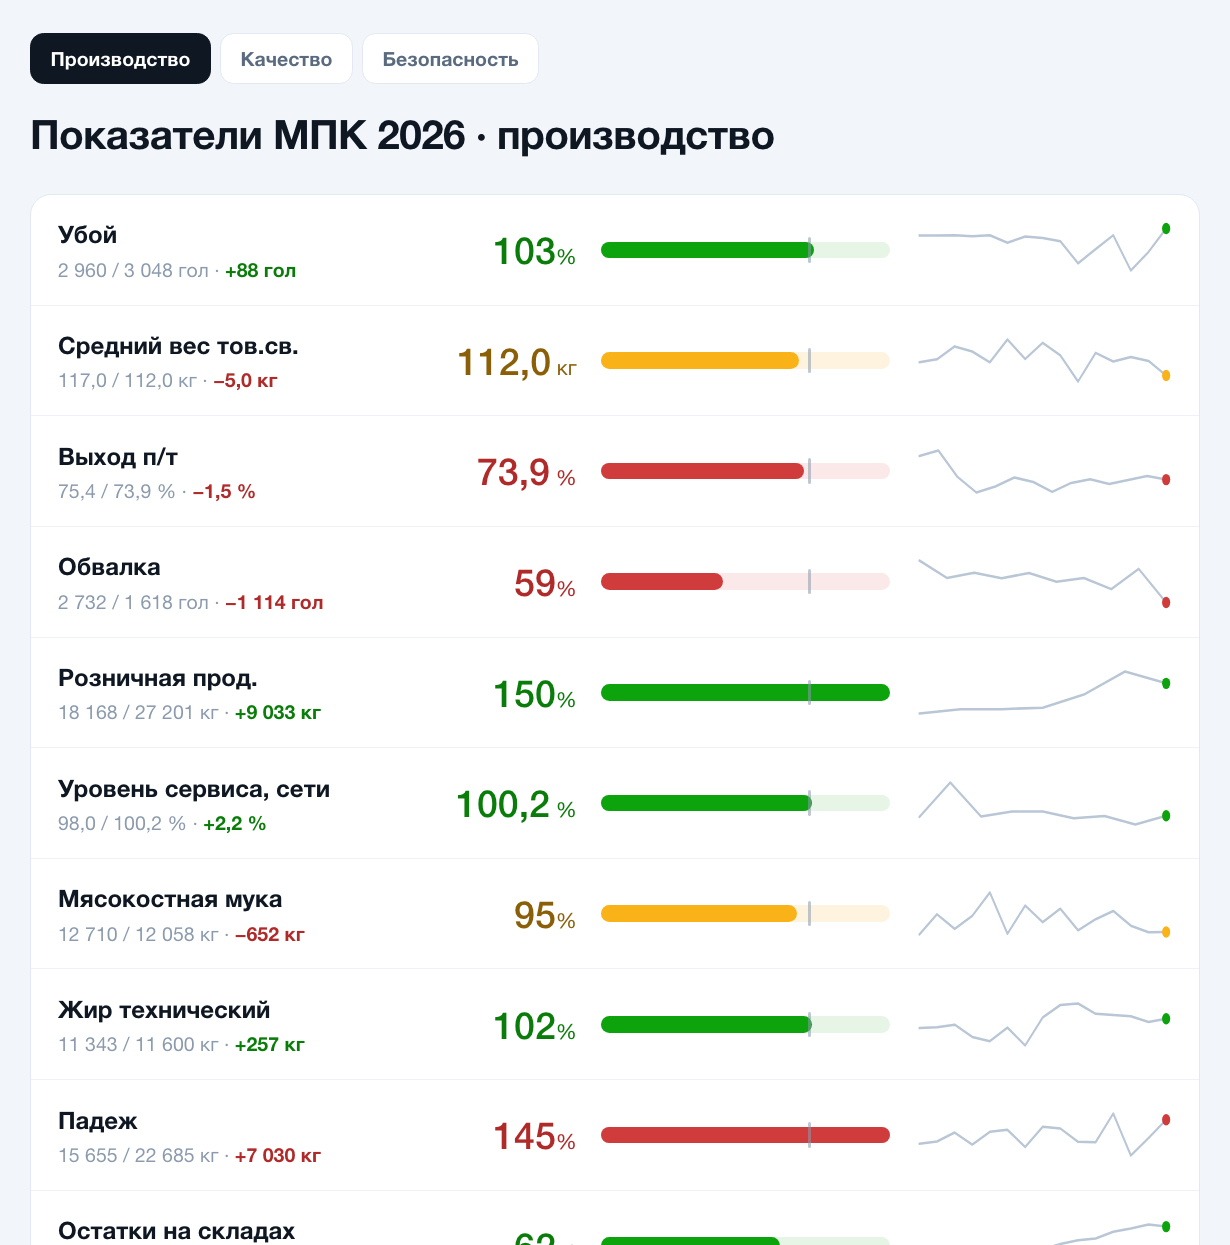
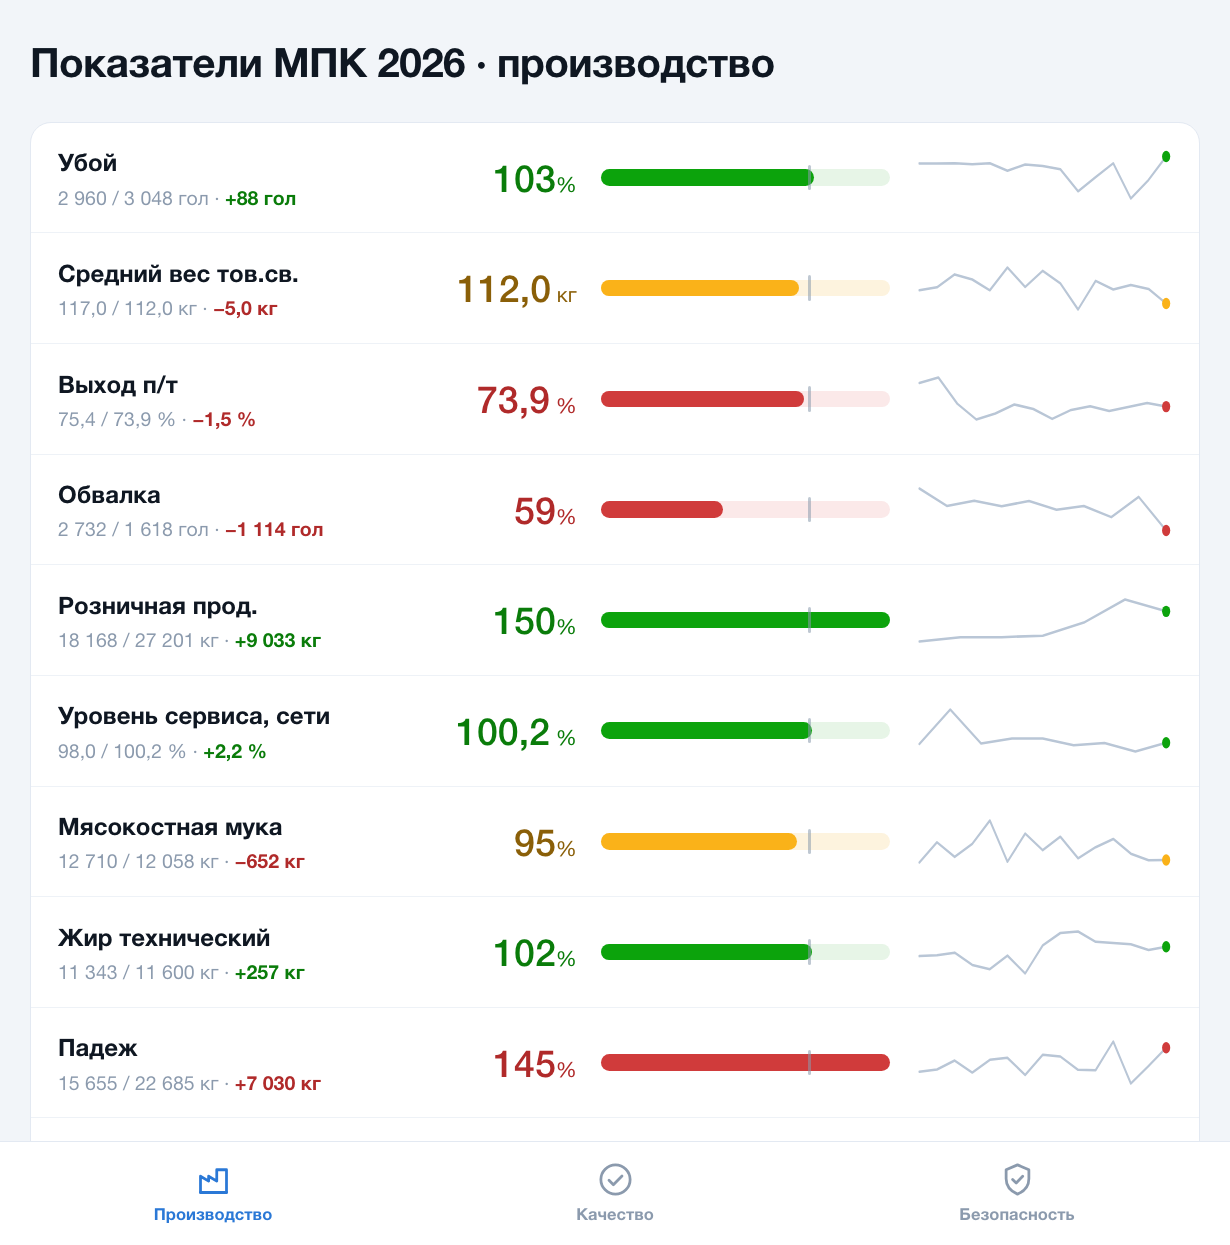
Данные по 15.10.2026

diff --git a/index.html b/index.html
@@ -8,10 +8,10 @@
 <meta property="og:type" content="website">
 <meta property="og:site_name" content="&#8203;">
 <meta property="og:title" content="Сводка МПК за 15.10.2026">
-<meta property="og:image" content="https://pashaleb-alt.github.io/MPK/preview.png?v=20261016151152">
+<meta property="og:image" content="https://pashaleb-alt.github.io/MPK/preview.png?v=20261017053056">
 <meta property="og:image:width" content="1230"><meta property="og:image:height" content="1245">
 <meta name="twitter:card" content="summary_large_image">
-<meta name="twitter:image" content="https://pashaleb-alt.github.io/MPK/preview.png?v=20261016151152">
+<meta name="twitter:image" content="https://pashaleb-alt.github.io/MPK/preview.png?v=20261017053056">
 <title>Показатели МПК 2026</title>
 <style>:root{color-scheme:light dark}html,body{margin:0;padding:0}img{max-width:100%}[hidden]{display:none!important}</style>
 <script>if(/tgWebApp/.test(location.hash)){var s=document.createElement("script");s.src="https://telegram.org/js/telegram-web-app.js";s.onload=function(){try{Telegram.WebApp.ready();Telegram.WebApp.expand()}catch(e){}};document.head.appendChild(s)}</script>
@@ -122,6 +122,14 @@ input[type=date]:focus-visible{outline:2px solid var(--accent);outline-offset:2p
 .spark circle.sel{fill:var(--bar)}
 .empty{padding:40px 18px;text-align:center;color:var(--ink-3)}
 .dashnav{display:flex;gap:6px;margin-bottom:14px} .dashnav a{font-size:13px;font-weight:600;padding:7px 13px;border:1px solid var(--line);border-radius:9px;color:var(--ink-2);text-decoration:none;background:var(--surface)} .dashnav a.on{background:var(--ink);color:var(--surface);border-color:var(--ink)}
+.dashnav a svg{display:none} .dashnav a[hidden]{display:none}
+@media (max-width:820px){ /* вкладки — панель внизу экрана, как в мобильных приложениях (Павел, 17.10.2026) */
+  .dashnav{position:fixed;left:0;right:0;bottom:0;z-index:50;margin:0;gap:0;justify-content:space-around;padding:6px 8px calc(6px + env(safe-area-inset-bottom));background:var(--surface);border-top:1px solid var(--line)}
+  .dashnav a{flex:1;display:flex;flex-direction:column;align-items:center;gap:3px;border:0;border-radius:10px;background:transparent;padding:6px 2px;font-size:11px;font-weight:600;color:var(--ink-3);-webkit-tap-highlight-color:transparent}
+  .dashnav a svg{display:block;width:26px;height:26px;fill:none;stroke:currentColor;stroke-width:1.7;stroke-linecap:round;stroke-linejoin:round}
+  .dashnav a.on{background:transparent;color:var(--accent);border:0}
+  .wrap{padding-bottom:104px}
+}
 .labor{padding:16px 18px;margin-top:14px} .labor .ph{display:flex;align-items:baseline;justify-content:space-between;gap:10px;flex-wrap:wrap;margin-bottom:10px} .labor h2{font-size:17px;font-weight:700;margin:0} .labor .note{font-size:12.5px;color:var(--ink-3)}
 .labor .legend{display:flex;gap:14px;flex-wrap:wrap;font-size:12px;color:var(--ink-2);margin-top:8px} .labor .legend i{display:inline-block;width:10px;height:10px;border-radius:3px;margin-right:5px;vertical-align:-1px}
 .lb3{display:grid;gap:14px} .lb-one{border-top:1px solid var(--line-soft);padding-top:10px} .lb-one:first-child{border-top:0;padding-top:0}
@@ -173,7 +181,7 @@ input[type=date]:focus-visible{outline:2px solid var(--accent);outline-offset:2p
 (()=>{try{const q=new URLSearchParams(location.search).get("theme"); if(q==="light"||q==="dark") localStorage.setItem("mpkTheme",q); if(q==="auto") localStorage.setItem("mpkTheme","auto");
 const t=localStorage.getItem("mpkTheme")||"light"; if(t!=="auto") document.documentElement.setAttribute("data-theme",t);}catch(e){document.documentElement.setAttribute("data-theme","light")}})();</script>
 <div class="wrap">
-  <nav class="dashnav" aria-label="Дашборды"><a href="/MPK/" class="on">Производство</a><a href="/MPK/quality/">Качество</a><a href="/MPK/safety/">Безопасность</a></nav>
+  <nav class="dashnav" aria-label="Дашборды"><a href="/MPK/" class="on" data-p="prod"><svg viewBox="0 0 24 24" aria-hidden="true"><path d="M4 20V10l5 3V10l5 3V6h6v14z"/><path d="M4 20h16"/></svg><span>Производство</span></a><a href="/MPK/quality/" data-p="quality"><svg viewBox="0 0 24 24" aria-hidden="true"><circle cx="12" cy="12" r="9"/><path d="M8 12.5l2.7 2.7L16 9.8"/></svg><span>Качество</span></a><a href="/MPK/safety/" data-p="safety"><svg viewBox="0 0 24 24" aria-hidden="true"><path d="M12 3l7 3v5.5c0 4.3-2.9 7.7-7 9.5-4.1-1.8-7-5.2-7-9.5V6z"/><path d="M9 12l2.2 2.2L15.2 10"/></svg><span>Безопасность</span></a></nav>
 <script>document.querySelectorAll(".dashnav a").forEach(a=>a.addEventListener("click",e=>{e.preventDefault();const u=new URL(a.getAttribute("href"),location.origin);u.searchParams.set("v",Date.now());location.assign(u.toString())}));</script>
   <div class="top">
     <h1>Показатели МПК 2026 ·<span class="h1s"> производство</span></h1>
